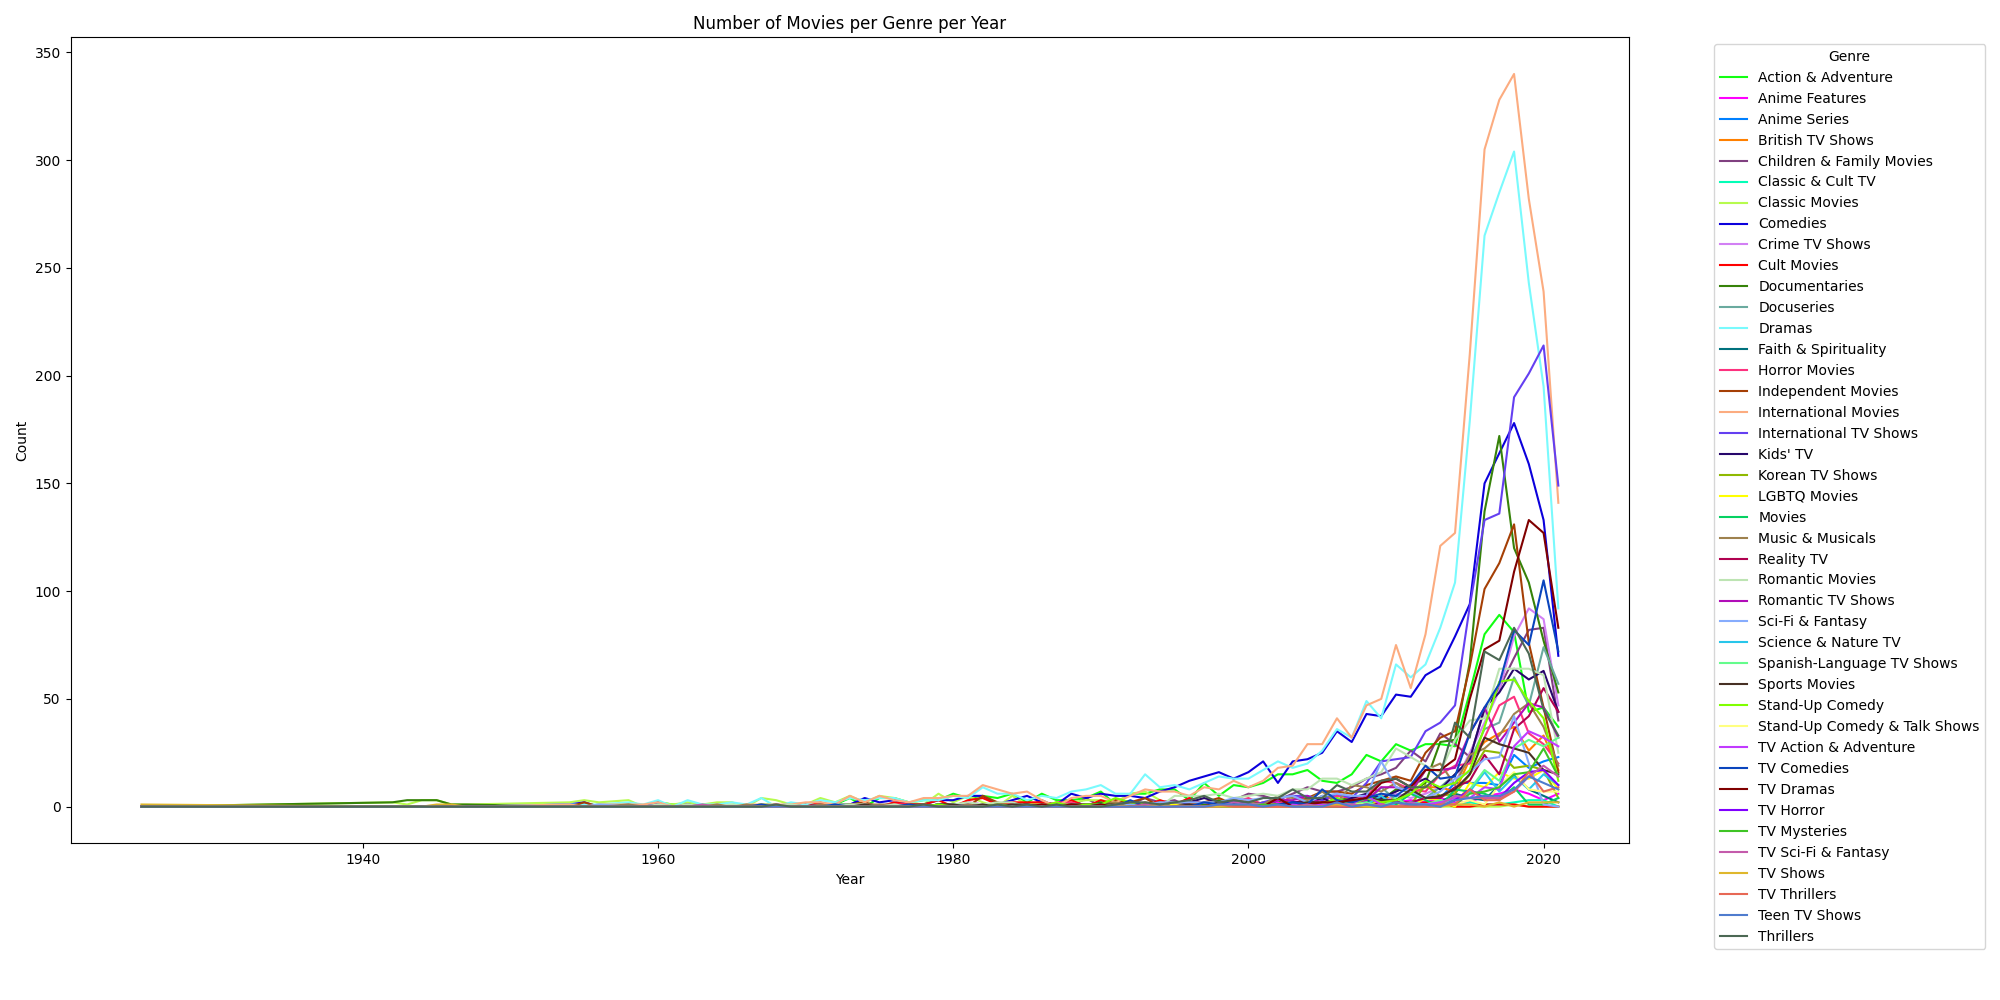
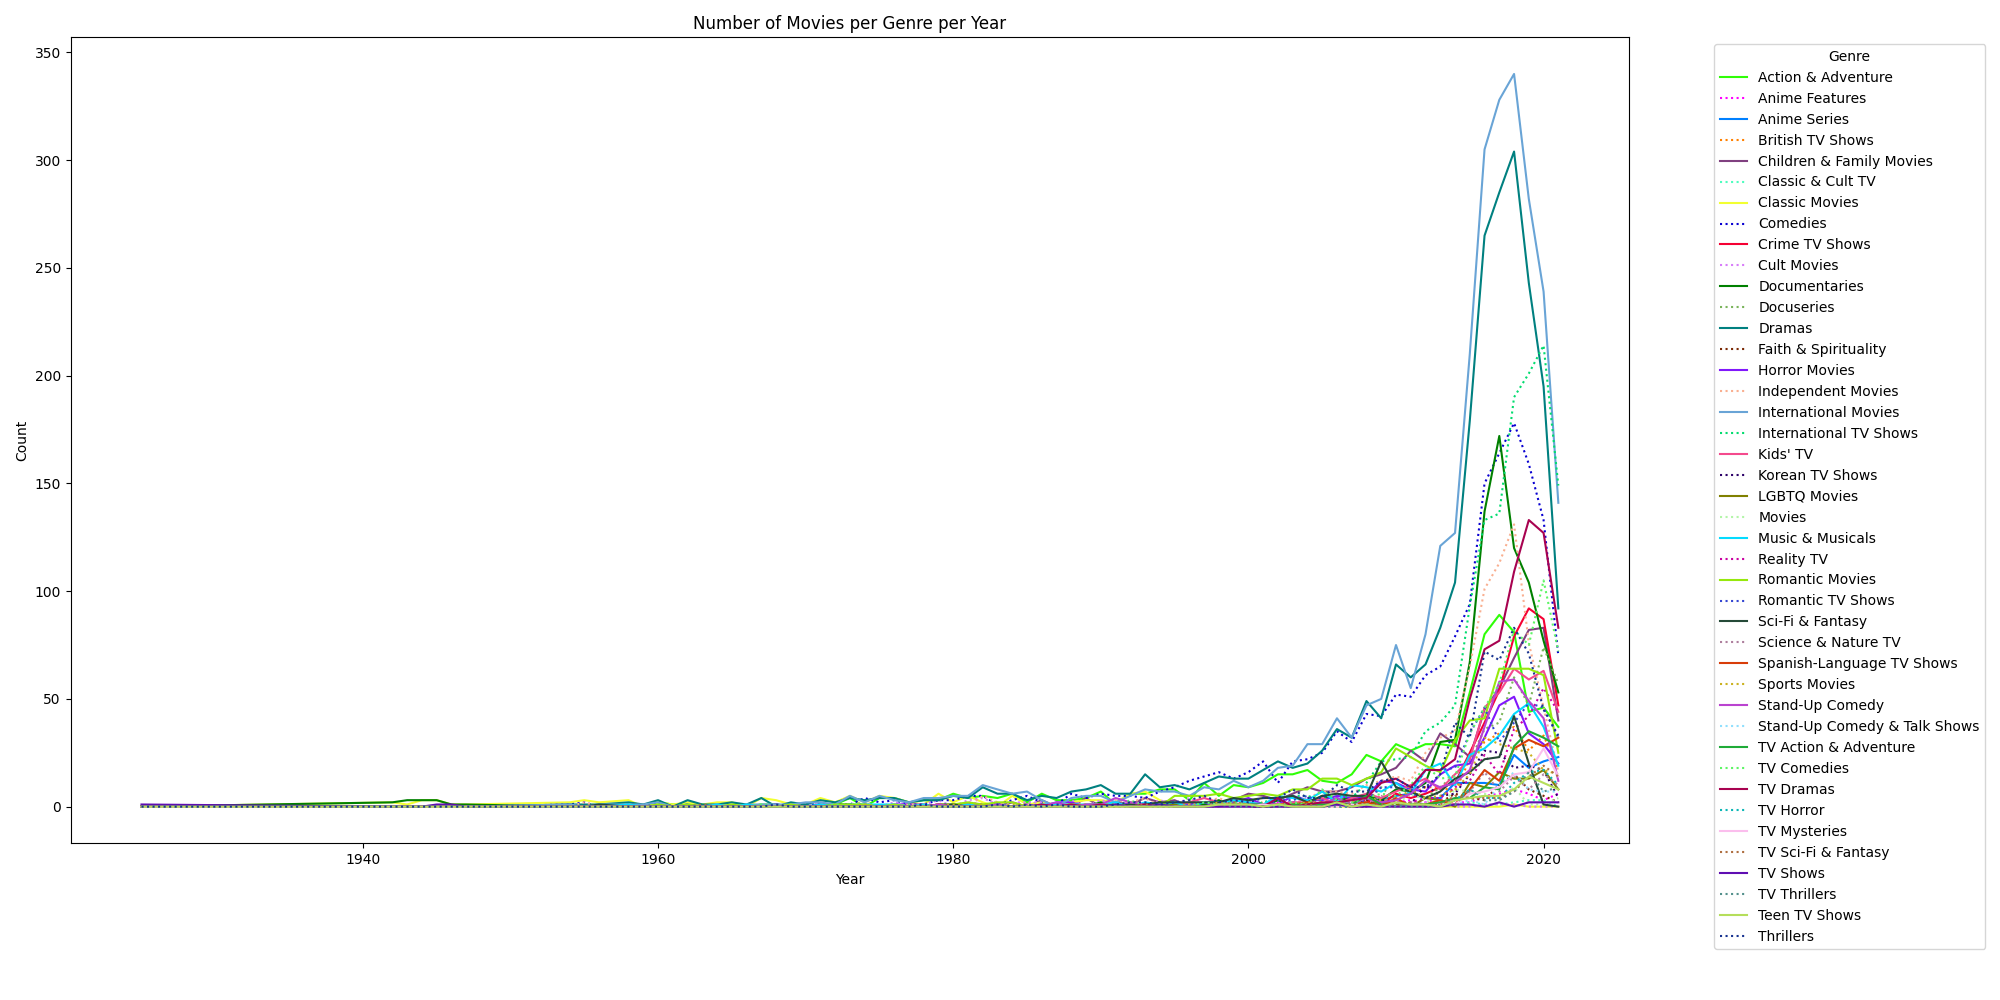
fixed dotted and full lines

Changed region(s): [[0.248, 0.341, 0.806, 0.806], [0.744, 0.155, 0.775, 0.248], [0.186, 0.775, 0.217, 0.806]]

diff --git a/src/analyzer.py b/src/analyzer.py
@@ -75,12 +75,14 @@ class Analyzer:
         # Generate visually distinct colors
         distinct_colors = distinctipy.get_colors(genre_counts.shape[1])
 
-        genre_counts.plot(
-            kind='line',
-            stacked=False,
-            figsize=(20, 10),
-            color=distinct_colors,
-        )
+        # Plot manually to control linestyle
+        plt.figure(figsize=(20, 10))
+        linestyles = ['-', ':']  # Alternating solid and dotted lines
+
+        for i, (genre, color) in enumerate(zip(genre_counts.columns, distinct_colors)):
+            linestyle = linestyles[i % len(linestyles)]
+            plt.plot(genre_counts.index, genre_counts[genre], label=genre, color=color, linestyle=linestyle)
+
 
         plt.title("Number of Movies per Genre per Year")
         plt.xlabel("Year")
@@ -149,45 +151,45 @@ class Analyzer:
         # -----------------------------
         # Plot 5: Top 10 Directors per Year
         # -----------------------------
-        if 'director' not in df.columns:
-            logger.warning("'director' column not found.")
-            return
+        # if 'director' not in df.columns:
+        #     logger.warning("'director' column not found.")
+        #     return
 
-        # Clean up
-        df['Director'] = df['director'].str.strip()
+        # # Clean up
+        # df['Director'] = df['director'].str.strip()
 
-        # Count appearances per director per year
-        director_counts = df.groupby(['Year', 'Director']).size().reset_index(name='Count')
+        # # Count appearances per director per year
+        # director_counts = df.groupby(['Year', 'Director']).size().reset_index(name='Count')
 
-        # Get top 10 directors per year
-        top10_per_year = director_counts.groupby('Year').apply(
-            lambda g: g.nlargest(10, 'Count')
-        ).reset_index(drop=True)
+        # # Get top 10 directors per year
+        # top10_per_year = director_counts.groupby('Year').apply(
+        #     lambda g: g.nlargest(10, 'Count')
+        # ).reset_index(drop=True)
 
-        # Pivot to wide format for plotting
-        pivot_df = top10_per_year.pivot(index='Year', columns='Director', values='Count').fillna(0)
+        # # Pivot to wide format for plotting
+        # pivot_df = top10_per_year.pivot(index='Year', columns='Director', values='Count').fillna(0)
 
-        # Generate distinct colors
-        distinct_colors_directors = distinctipy.get_colors(pivot_df.shape[1])
+        # # Generate distinct colors
+        # distinct_colors_directors = distinctipy.get_colors(pivot_df.shape[1])
 
-        # Plot
-        pivot_df.plot(
-            kind='bar',
-            stacked=True,
-            figsize=(20, 10),
-            color=distinct_colors_directors,
-        )
+        # # Plot
+        # pivot_df.plot(
+        #     kind='bar',
+        #     stacked=True,
+        #     figsize=(20, 10),
+        #     color=distinct_colors_directors,
+        # )
 
-        plt.title("Top 10 Directors per Year")
-        plt.xlabel("Year")
-        plt.ylabel("Number of Movies/Shows")
-        plt.legend(title="Director", bbox_to_anchor=(1.05, 1), loc='upper left')
-        plt.tight_layout()
-        plt.savefig("results/top10_directors_per_year.png")
-        plt.clf()
+        # plt.title("Top 10 Directors per Year")
+        # plt.xlabel("Year")
+        # plt.ylabel("Number of Movies/Shows")
+        # plt.legend(title="Director", bbox_to_anchor=(1.05, 1), loc='upper left')
+        # plt.tight_layout()
+        # plt.savefig("results/top10_directors_per_year.png")
+        # plt.clf()
 
-        # Save to Excel
-        pivot_df.to_excel("results/top10_directors_per_year.xlsx")
+        # # Save to Excel
+        # pivot_df.to_excel("results/top10_directors_per_year.xlsx")
 
 
     def genre(self, df):
